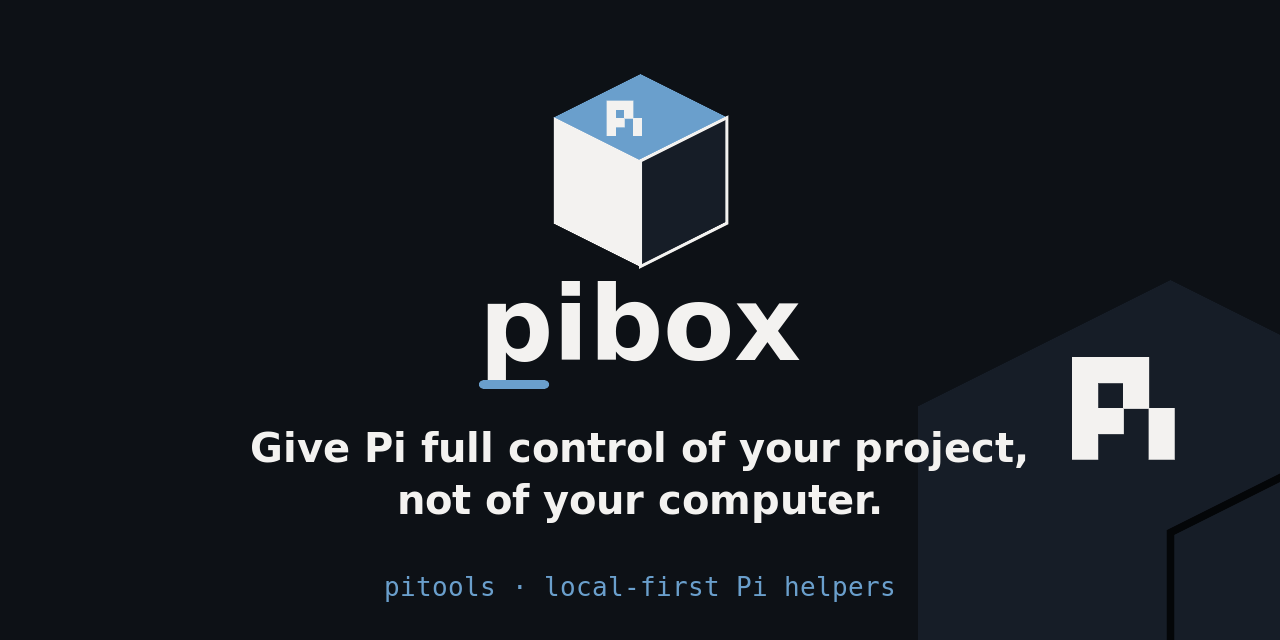
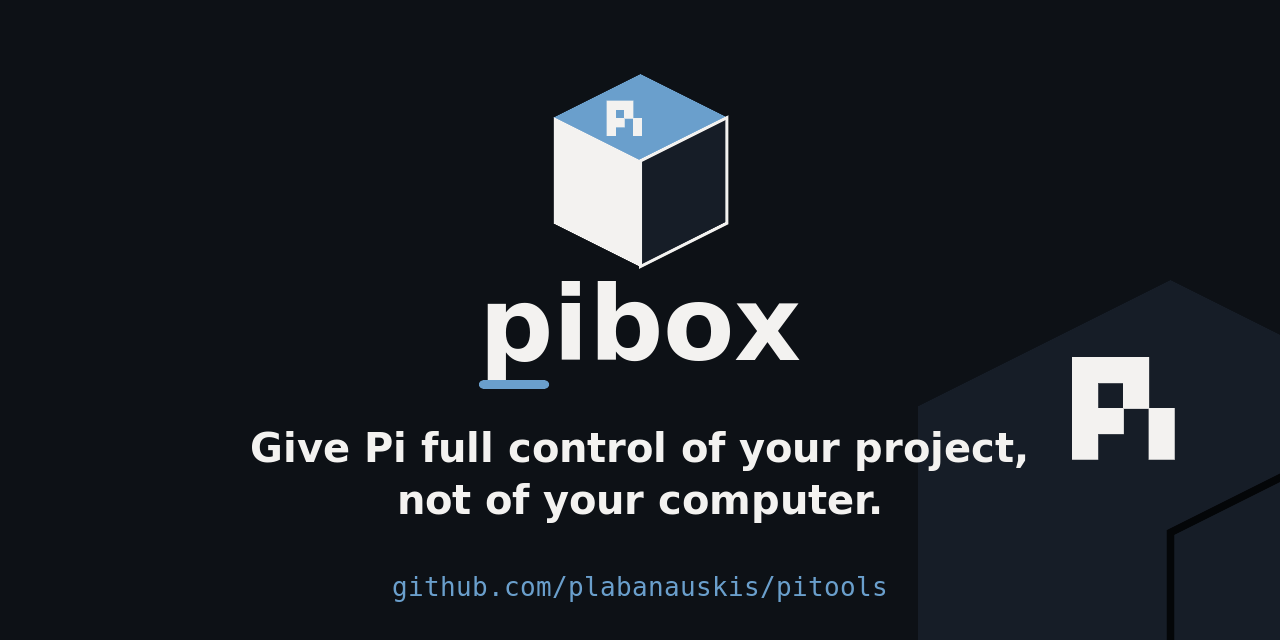
docs: publish GitHub installation flow

Changed region(s): [[0.2812, 0.9062, 0.7188, 0.9375]]

diff --git a/README.md b/README.md
@@ -30,17 +30,23 @@ Three focused helpers for working with the [Pi coding agent](https://pi.dev) in 
 
 `pichat` and `pisession` are lightweight shell tools. `pibox` is deliberately heavier: it needs a locally built Docker image and Linux's sysbox runtime. Selecting one of the lightweight tools never installs or builds the box.
 
-## Local install
-
-This repository is local-only for now. From its checkout:
+## Install
 
 ```bash
-PITOOLS_REPO="file://$PWD" bash install.sh              # interactive picker
-PITOOLS_REPO="file://$PWD" bash install.sh --all        # every eligible tool
-PITOOLS_REPO="file://$PWD" bash install.sh --tools=pichat,pisession
+curl -fsSL https://raw.githubusercontent.com/plabanauskis/pitools/main/install.sh | bash
 ```
 
-The source directory must be a Git repository with a `main` branch because the installer creates a managed clone. `--force` creates links even when a platform requirement or dependency is missing.
+Prefer to inspect the installer first:
+
+```bash
+curl -fsSL -O https://raw.githubusercontent.com/plabanauskis/pitools/main/install.sh
+less install.sh
+bash install.sh                       # interactive picker
+bash install.sh --all                 # every eligible tool
+bash install.sh --tools=pichat,pisession
+```
+
+For development, install directly from a local checkout with `PITOOLS_REPO="file://$PWD"`. `--force` creates links even when a platform requirement or dependency is missing.
 
 ## What gets installed
 
@@ -49,7 +55,7 @@ No sudo, no `/usr` or `/etc` changes, and no host daemons. The installer writes 
 - `~/.local/share/pitools` — a Git clone of this repository. Override with `PITOOLS_HOME`.
 - `~/.local/bin` — the `pitools` link and one link per enabled command. Override with `PITOOLS_BIN`.
 
-Set `PITOOLS_REPO` to another local clone or future remote and `PITOOLS_BRANCH` to its branch. If the bin directory is not on `PATH`, the installer prints the exact export to add.
+Set `PITOOLS_REPO` to a mirror, fork, or local clone and `PITOOLS_BRANCH` to its branch. If the bin directory is not on `PATH`, the installer prints the exact export to add.
 
 Remove box runtime artifacts before removing the suite:
 
